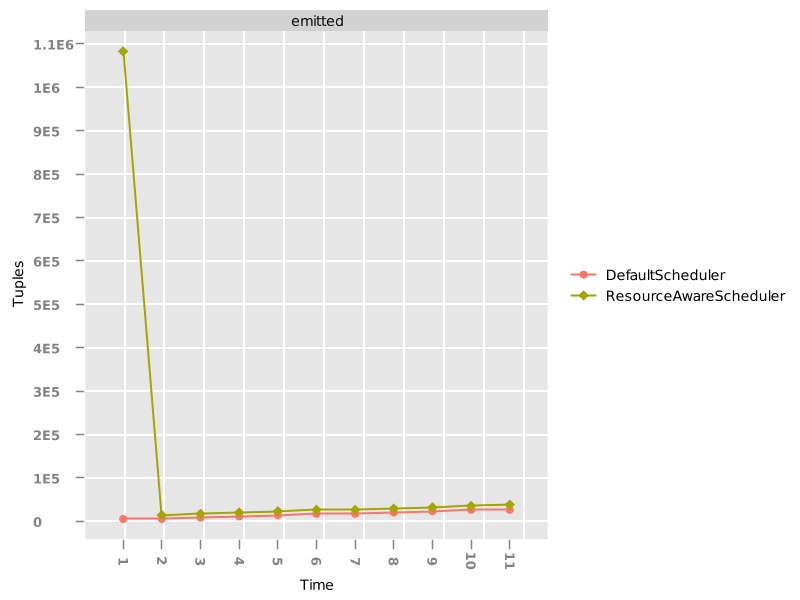
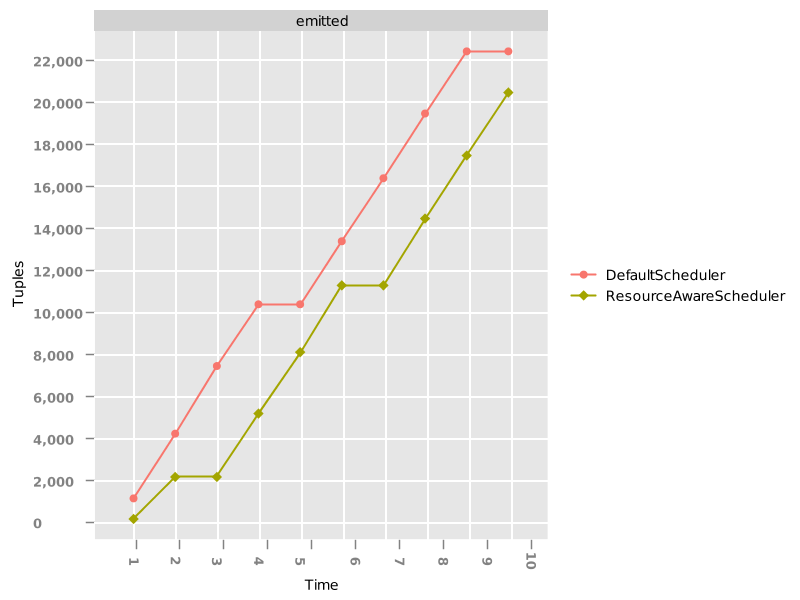
working on topologyStat

Changed region(s): [[0.0312, 0.0, 0.6875, 0.99]]

diff --git a/src/main/java/topologyStat.java b/src/main/java/topologyStat.java
@@ -40,9 +40,6 @@ public class topologyStat {
     }
 
     public static void drawCharts() {
-
-
-
         Map<String, ArrayList<Integer>> points = new HashMap<String, ArrayList<Integer>>();
         for (Map.Entry<String, HashMap<String, HashMap<Integer, Integer>>> metric :
                 schedulerResults.getResults().entrySet()) {
@@ -84,7 +81,6 @@ public class topologyStat {
                         e.printStackTrace();
                     }
                 }
-
             }
         }
     }
@@ -108,7 +104,6 @@ public class topologyStat {
                 String schedulerName = configurationObject.getString("storm.scheduler");
                 String[] elements = schedulerName.split(Pattern.quote("."));
                 schedulerName = elements[elements.length - 1];
-                String metricName = "emitted";
                 int emitted = getTopologyStatMetrics(theTopologyObject, "emitted");
                 int transferred = getTopologyStatMetrics(theTopologyObject, "transferred");
                 iteration++;
@@ -119,6 +114,8 @@ public class topologyStat {
                 if (iteration >= 10) {
                     System.out.println("Saving Stats...");
                     serializeMap(schedulerResults, "results.ser");
+                    if (schedulerResults.isCompleted())
+                        drawCharts();
                 }
             }
         }
